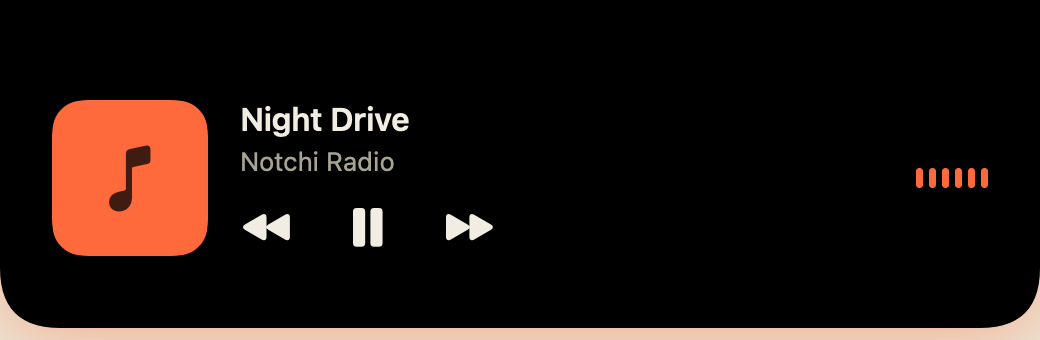
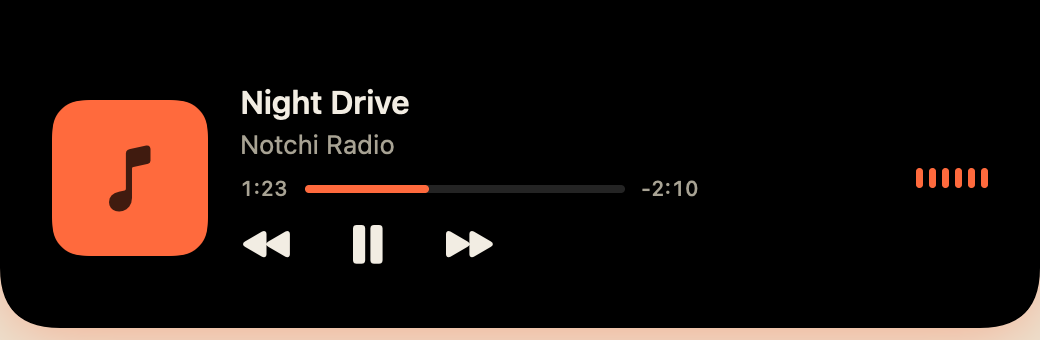
Add notch components catalog and YouTube/any-app screenshot
A filterable grid of every notch component, what works today and what's
coming, each with a small animated island. The screenshot gallery gains
the new any-app player (a video in Safari with the app badge).

diff --git a/web/components/NotchComponents.tsx b/web/components/NotchComponents.tsx
@@ -1,0 +1,115 @@
+"use client";
+
+import { motion } from "motion/react";
+import { useState } from "react";
+import { SectionHead } from "./ui";
+
+type Kind = "eq" | "bar" | "text" | "ring" | "dots";
+type Comp = { name: string; line: string; glyph: Glyph; kind: Kind; label?: string; status: "shipped" | "v1.0" | "v1.5" };
+
+const COMPONENTS: Comp[] = [
+  { name: "Now playing", line: "Any app: YouTube in Safari or Chrome, Music, Spotify, Podcasts. Art, controls, progress.", glyph: "note", kind: "eq", status: "shipped" },
+  { name: "Volume", line: "Replaces the macOS volume indicator. Fine steps with Shift+Option.", glyph: "speaker", kind: "bar", status: "shipped" },
+  { name: "Brightness", line: "Same for the brightness keys, in your theme colour.", glyph: "sun", kind: "bar", status: "shipped" },
+  { name: "Battery", line: "A charging animation when you plug in, a warning when it runs low.", glyph: "bolt", kind: "text", label: "87%", status: "shipped" },
+  { name: "File shelf", line: "Drop files on the notch, drag them out later or AirDrop them all.", glyph: "tray", kind: "dots", status: "shipped" },
+  { name: "Terminal pings", line: "notchi notify from any script, build or AI agent.", glyph: "term", kind: "text", label: "Build done", status: "shipped" },
+  { name: "Progress", line: "Exports, downloads and long jobs with a live bar.", glyph: "down", kind: "bar", status: "shipped" },
+  { name: "Theme switch", line: "Pick a theme and the whole notch recolours with it.", glyph: "palette", kind: "dots", status: "shipped" },
+  { name: "Home", line: "Hover for the time, date and battery at a glance.", glyph: "clock", kind: "text", label: "21:44", status: "shipped" },
+  { name: "Timers & Pomodoro", line: "A progress ring that runs around the notch.", glyph: "timer", kind: "ring", status: "v1.0" },
+  { name: "Next meeting", line: "Countdown to your next calendar event with a join button.", glyph: "cal", kind: "text", label: "in 5 min", status: "v1.0" },
+  { name: "AirPods", line: "A connect animation with each bud's battery.", glyph: "pods", kind: "text", label: "92 · 88", status: "v1.0" },
+  { name: "Clipboard", line: "Your last few copies, one click away.", glyph: "clip", kind: "dots", status: "v1.0" },
+  { name: "Quick notes", line: "Jot something down without opening an app.", glyph: "pen", kind: "text", label: "buy milk", status: "v1.5" },
+  { name: "Mirror", line: "A quick webcam check before a call.", glyph: "cam", kind: "ring", status: "v1.5" },
+];
+
+type Glyph = "note" | "speaker" | "sun" | "bolt" | "tray" | "term" | "down" | "palette" | "clock" | "timer" | "cal" | "pods" | "clip" | "pen" | "cam";
+
+const G: Record<Glyph, React.ReactNode> = {
+  note: <path d="M9 17V5l10-2v12M9 17a3 3 0 1 1-3-3 3 3 0 0 1 3 3Zm10-2a3 3 0 1 1-3-3 3 3 0 0 1 3 3Z" />,
+  speaker: <path d="M4 9h4l5-4v14l-5-4H4zM16 8.5a5 5 0 0 1 0 7M18.5 6a8.5 8.5 0 0 1 0 12" />,
+  sun: <><circle cx="12" cy="12" r="4" /><path d="M12 2v2M12 20v2M2 12h2M20 12h2M4.9 4.9l1.4 1.4M17.7 17.7l1.4 1.4M4.9 19.1l1.4-1.4M17.7 6.3l1.4-1.4" /></>,
+  bolt: <path d="M13 2 4 14h7l-1 8 9-12h-7z" />,
+  tray: <path d="M3 13h5l1.5 3h5L16 13h5M5 5h14l2 8v6H3v-6z" />,
+  term: <path d="m5 7 5 5-5 5M12 17h7" />,
+  down: <path d="M12 3v12m0 0-5-5m5 5 5-5M4 21h16" />,
+  palette: <><path d="M12 3a9 9 0 1 0 0 18c1.5 0 2-1 2-2s-1-1.5-1-2.5S14 15 15.5 15H18a3 3 0 0 0 3-3 9 9 0 0 0-9-9Z" /><circle cx="7.5" cy="11" r="1" /><circle cx="10" cy="7" r="1" /><circle cx="15" cy="7.5" r="1" /></>,
+  clock: <><circle cx="12" cy="12" r="9" /><path d="M12 7v5l3 2" /></>,
+  timer: <><circle cx="12" cy="13" r="8" /><path d="M12 9v4l2 2M9 2h6" /></>,
+  cal: <><rect x="3" y="5" width="18" height="16" rx="3" /><path d="M3 10h18M8 3v4M16 3v4" /></>,
+  pods: <path d="M7 4a3 3 0 0 0-3 3v3a3 3 0 0 0 3 3v7M17 4a3 3 0 0 1 3 3v3a3 3 0 0 1-3 3v7M7 4h0M17 4h0" />,
+  clip: <><rect x="6" y="4" width="12" height="17" rx="2" /><path d="M9 4V3h6v1M9 10h6M9 14h4" /></>,
+  pen: <path d="M4 20h4L19 9l-4-4L4 16zM14 6l4 4" />,
+  cam: <><rect x="3" y="7" width="13" height="11" rx="2" /><path d="m16 11 5-3v9l-5-3" /></>,
+};
+
+function MiniIsland({ c }: { c: Comp }) {
+  return (
+    <div className={`mini ${c.kind}`} aria-hidden>
+      <svg viewBox="0 0 24 24" width="18" height="18" fill="none" stroke="currentColor" strokeWidth="2.1" strokeLinecap="round" strokeLinejoin="round">{G[c.glyph]}</svg>
+      {c.kind === "eq" && <span className="m-eq">{[0, 1, 2, 3, 4].map((i) => <i key={i} style={{ animationDelay: `${i * 0.13}s` }} />)}</span>}
+      {c.kind === "bar" && <span className="m-bar"><i /></span>}
+      {c.kind === "text" && <span className="m-text">{c.label}</span>}
+      {c.kind === "dots" && <span className="m-dots"><i /><i /><i /></span>}
+      {c.kind === "ring" && <span className="m-ring" />}
+    </div>
+  );
+}
+
+const FILTERS = [
+  { k: "all", label: "All" },
+  { k: "shipped", label: "Working now" },
+  { k: "soon", label: "Coming" },
+] as const;
+
+export default function NotchComponents() {
+  const [f, setF] = useState<(typeof FILTERS)[number]["k"]>("all");
+  const list = COMPONENTS.filter((c) => f === "all" || (f === "shipped" ? c.status === "shipped" : c.status !== "shipped"));
+  const shipped = COMPONENTS.filter((c) => c.status === "shipped").length;
+
+  return (
+    <section className="section" id="notch-parts" data-notch="Notch components">
+      <div className="wrap">
+        <div className="mod-head">
+          <SectionHead
+            eyebrow="Notch components"
+            title={"Everything the\nnotch can do"}
+            sub={`${shipped} components work today. The rest are on the roadmap, and every one follows your theme.`}
+          />
+          <div className="seg" role="tablist" aria-label="Filter notch components">
+            {FILTERS.map((x) => (
+              <button key={x.k} role="tab" aria-selected={f === x.k} className={f === x.k ? "on" : ""} onClick={() => setF(x.k)}>
+                {f === x.k && <motion.i layoutId="seg-pill" className="seg-pill" transition={{ type: "spring", stiffness: 420, damping: 32 }} />}
+                <span>{x.label}</span>
+              </button>
+            ))}
+          </div>
+        </div>
+
+        <motion.div className="nc-grid" layout>
+          {list.map((c, i) => (
+            <motion.article
+              key={c.name}
+              layout
+              className={`nc${c.status === "shipped" ? "" : " soon"}`}
+              initial={{ opacity: 0, y: 40, scale: 0.96 }}
+              whileInView={{ opacity: 1, y: 0, scale: 1 }}
+              viewport={{ once: true, amount: 0.3 }}
+              transition={{ type: "spring", stiffness: 160, damping: 20, delay: (i % 3) * 0.05 }}
+              whileHover={{ y: -6 }}
+            >
+              <div className="nc-stage"><MiniIsland c={c} /></div>
+              <div className="nc-top">
+                <h3>{c.name}</h3>
+                <span className={`tag ${c.status === "shipped" ? "ok" : ""}`}>{c.status === "shipped" ? "Works now" : c.status}</span>
+              </div>
+              <p>{c.line}</p>
+            </motion.article>
+          ))}
+        </motion.div>
+      </div>
+    </section>
+  );
+}

diff --git a/web/components/Shipped.tsx b/web/components/Shipped.tsx
@@ -10,8 +10,9 @@ type Shot = { src: string; title: string; line: string; cmd?: string; tall?: boo
 /** Rendered straight from the app with `Notchi --snapshot`. Not mockups. */
 const SHOTS: Shot[] = [
   { src: "closed", title: "Resting", line: "Sits over the notch with a soft breathing glow in your theme colour." },
-  { src: "compact-music", title: "Now playing", line: "Album art and a live visualizer hug the notch while Music or Spotify plays." },
-  { src: "expanded-player", title: "Hover to open", line: "Play, pause and skip without leaving what you're doing." },
+  { src: "compact-music", title: "Now playing", line: "Artwork and a live visualizer hug the notch while anything plays." },
+  { src: "expanded-player", title: "Hover to open", line: "Play, pause, skip and see how far in you are." },
+  { src: "expanded-video", title: "YouTube & any app", line: "A video in Safari or Chrome shows up too, with the app's icon." },
   { src: "expanded-home", title: "Home", line: "Time, date and battery at a glance." },
   { src: "volume", title: "Volume", line: "Takes over from the macOS volume indicator, so only one shows." },
   { src: "brightness", title: "Brightness", line: "Same for the brightness keys. Shift+Option for fine steps." },
@@ -23,7 +24,7 @@ const SHOTS: Shot[] = [
 ];
 
 const DONE = [
-  "Notch island", "Now playing + controls", "Volume & brightness HUD", "File shelf",
+  "Notch island", "Now playing (any app)", "Volume & brightness HUD", "File shelf",
   "Live video wallpaper", "Icon studio", "notchi CLI", "Onboarding", "Auto-updates",
 ];
 
@@ -50,7 +51,7 @@ export default function Shipped() {
     <section className="section shipped" id="shipped" data-notch="v0.1 is real">
       <div className="wrap">
         <SectionHead
-          eyebrow="v0.1 · built so far"
+          eyebrow="Notch · real screenshots"
           title={"Already\nworking"}
           sub="No mockups. Every frame below is rendered from the real app with Notchi --snapshot, straight from the repo."
         />
